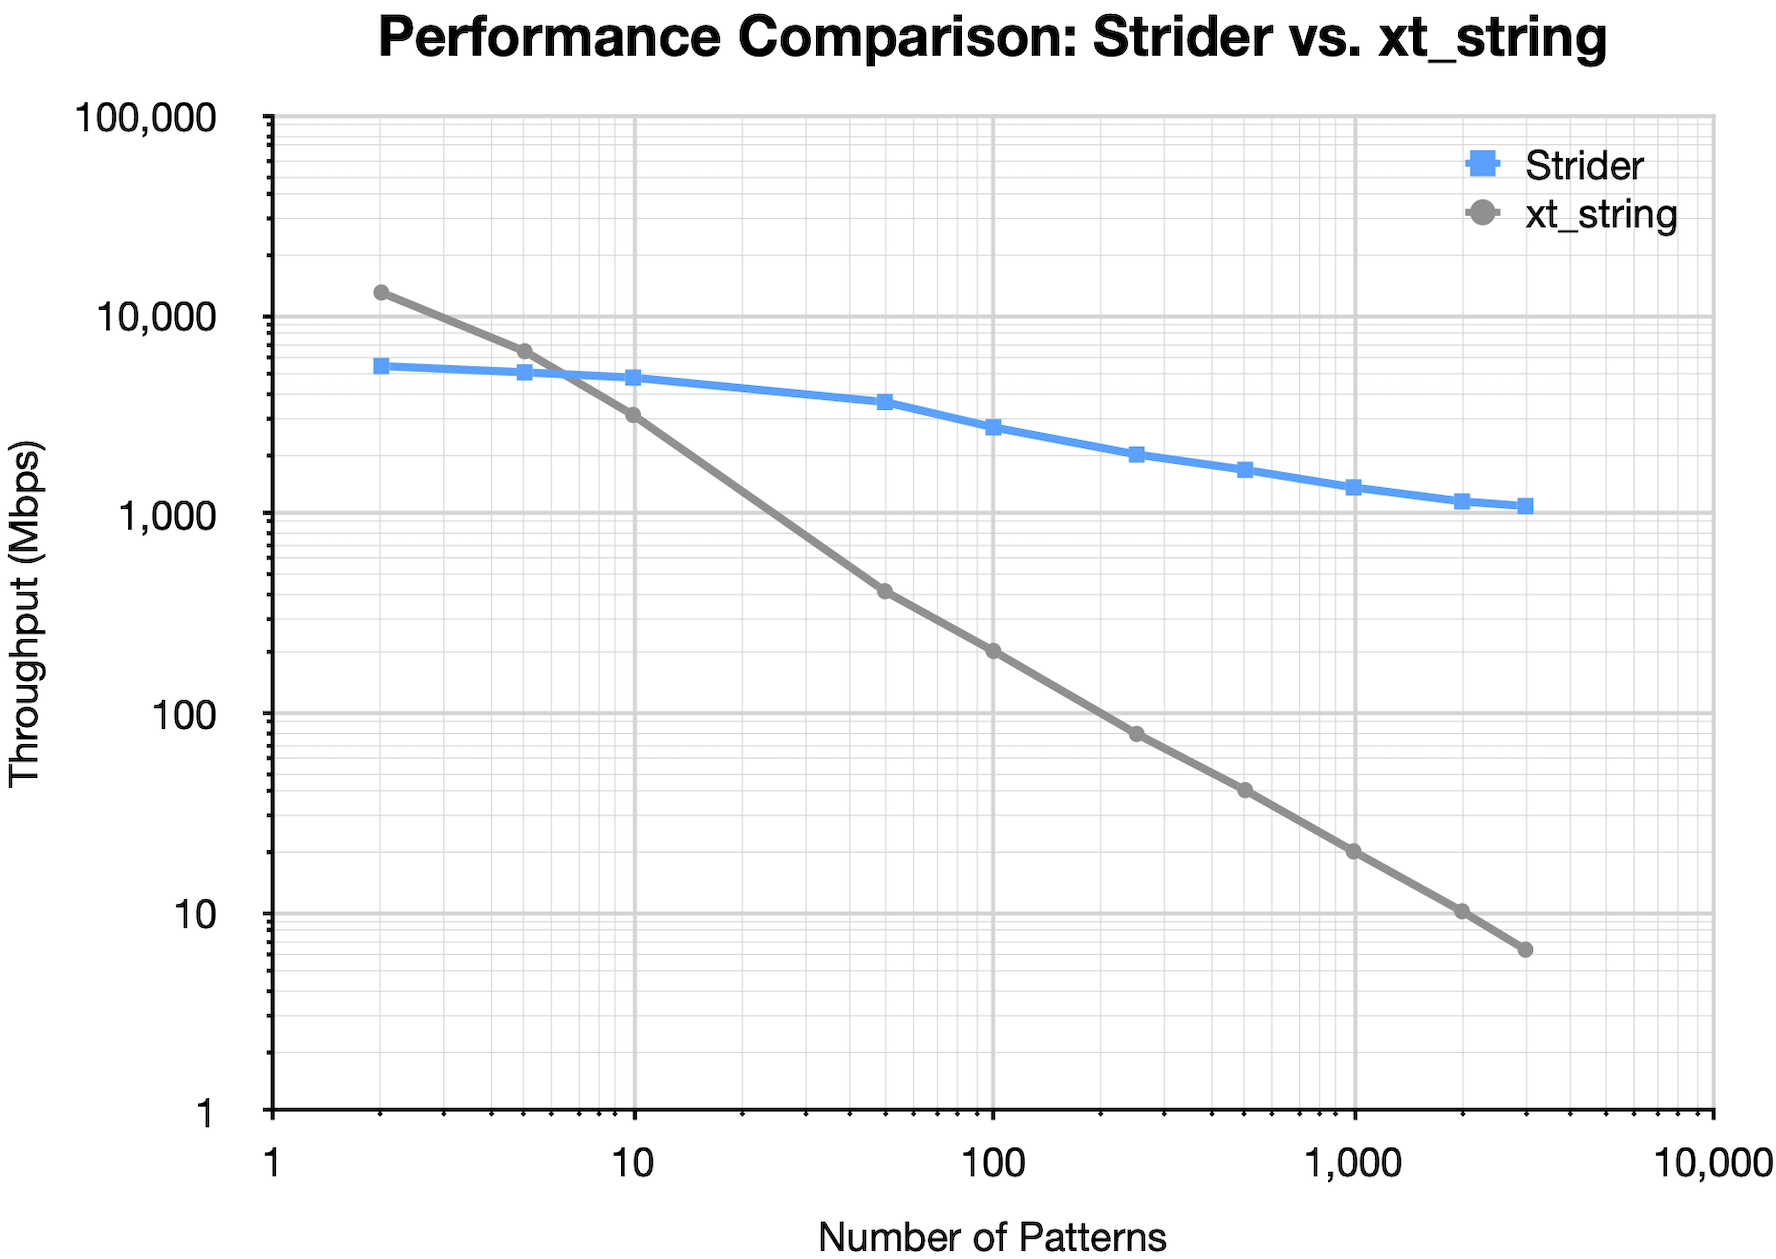
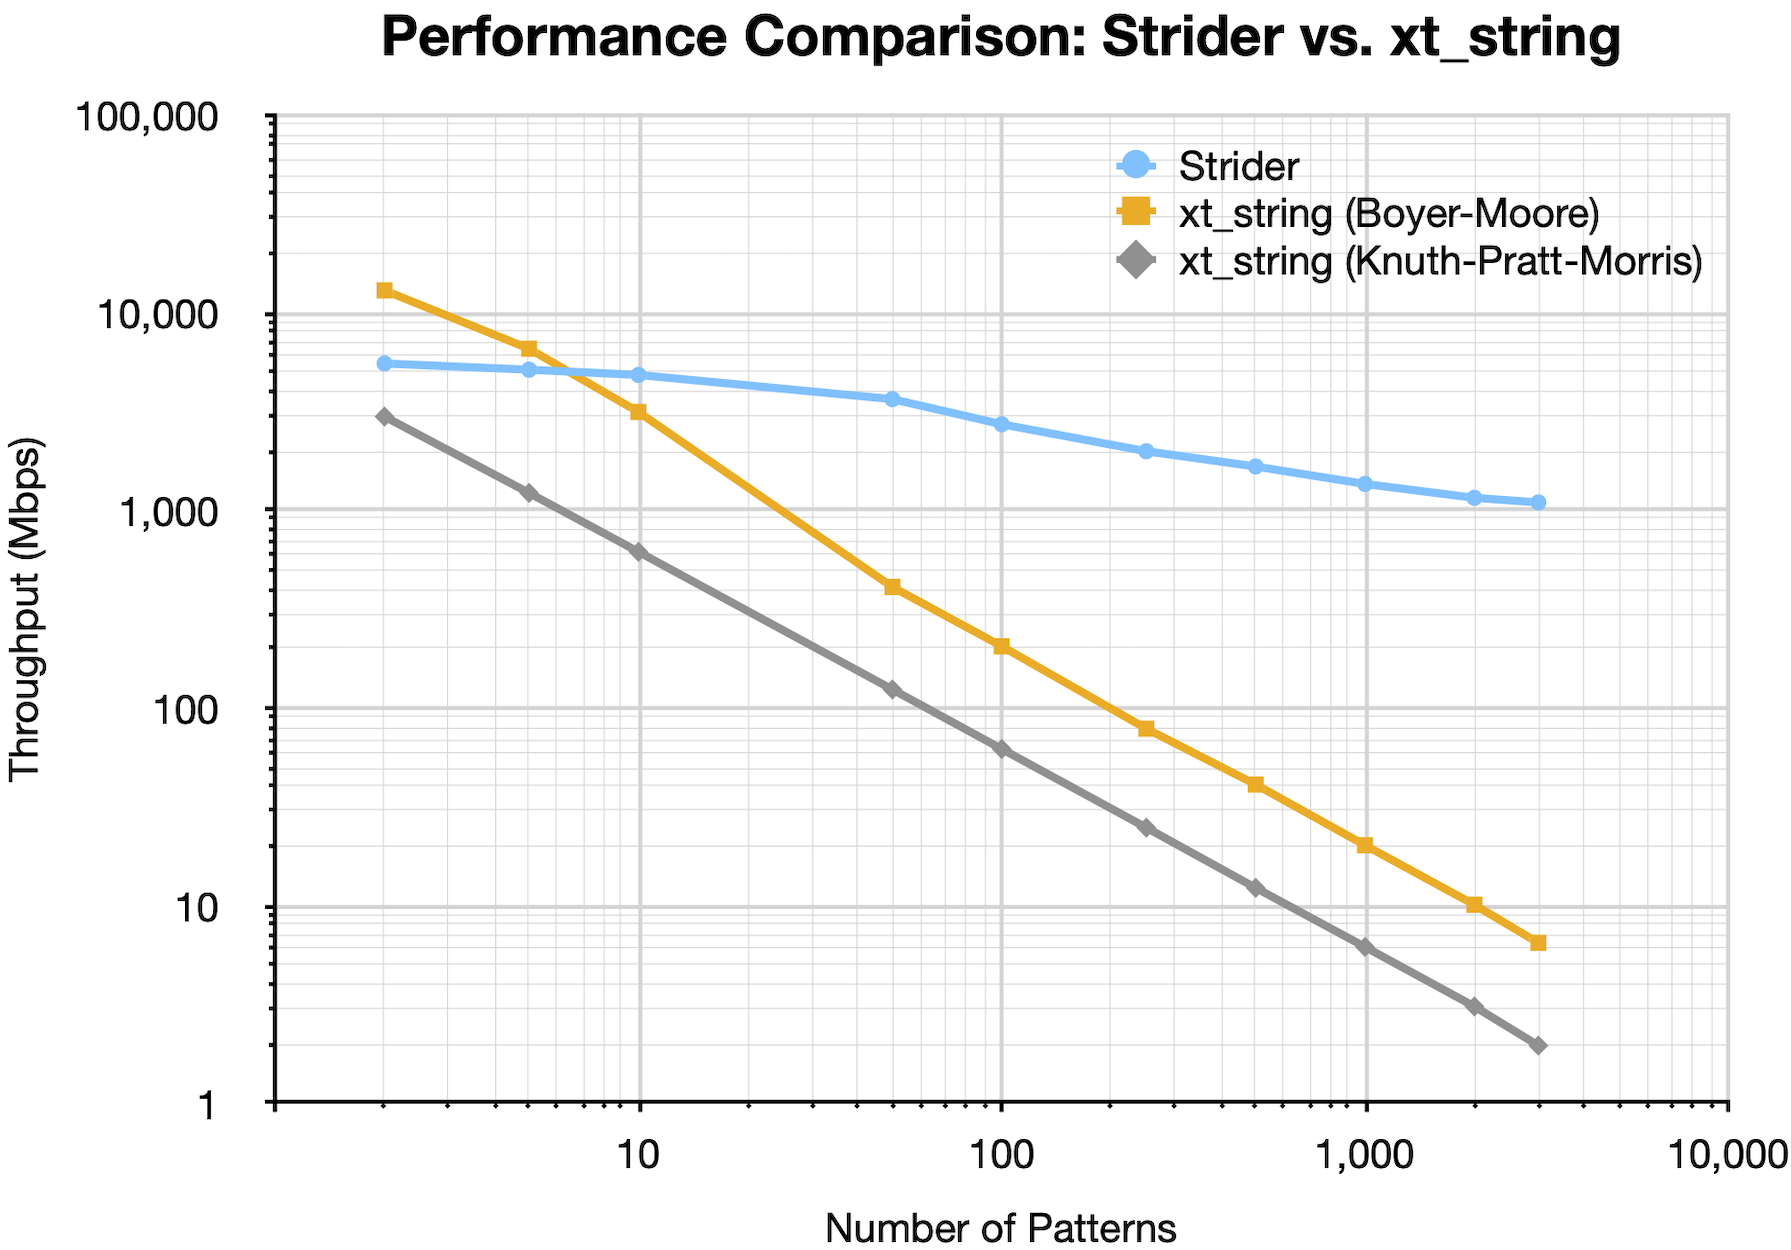
docs: update performance comparisons

diff --git a/README.md b/README.md
@@ -1,26 +1,34 @@
 # Strider
 
 Strider accelerates multi-pattern string matching in Linux Netfilter using the Aho-Corasick algorithm. It provides a
-scalable, dynamic alternative to
-[`xt_string`](https://man7.org/linux/man-pages/man8/iptables-extensions.8.html#:~:text=the%20nth%20mode.-,string,-This%20module%20matches),
+scalable, dynamic alternative to [
+`xt_string`](https://man7.org/linux/man-pages/man8/iptables-extensions.8.html#:~:text=the%20nth%20mode.-,string,-This%20module%20matches),
 capable of handling thousands of runtime-updatable patterns with minimal overhead.
 
 ## Why Strider?
 
-The native `xt_string` is slow because it matches patterns one by one. Strider uses the Aho-Corasick algorithm to match
-all patterns at once.
+The native `xt_string` scales poorly because it matches patterns one by one. Strider uses the Aho-Corasick algorithm to
+match **all patterns at once** in a single pass.
+
+What's worse, `xt_string` forces a trade-off between **speed** (Boyer-Moore, which misses patterns split across
+fragments) and **correctness** (Knuth-Pratt-Morris, reliable but extremely slow).
+
+**Strider gives you both.** It provides the correctness of KMP (never missing fragmented patterns) with performance that
+eclipses even the fast Boyer-Moore algorithm.
 
 <p align="center">
-    <img src="performance_comparison.png" width="49%" />
-    <img src="performance_gain.png" width="49%" />
+    <img src="performance_comparison.png" width="48%" />
+    <img src="performance_gain.png" width="48%" />
 </p>
 
 **Key Takeaways:**
 
-1. **Unmatched scalability**: Strider maintains above 1 Gbps throughput even with 3,000 patterns, delivering a **168x**
-   speedup over `xt_string` (which collapses to an unusable 6 Mbps).
-2. **Low break-even point**: You don't need massive rulesets to see benefits. Strider outperforms the native solution
-   once your ruleset exceeds just **~7** patterns.
+1. **Unmatched Scalability**: Strider maintains above 1 Gbps throughput even with 3,000 patterns, delivering a
+   **558.7x** speedup over `xt_string` (which collapses to an unusable 1.96 Mbps in the "reliable" KMP mode).
+2. **No "Safety Tax"**: Strider matches KMP's reliability guarantees (handling fragmentation) while delivering superior
+   performance for any non-trivial ruleset (>1 pattern).
+3. **Low Break-Even Point**: Even against the "fast but unreliable" Boyer-Moore algorithm, Strider takes the lead once
+   your ruleset exceeds just **~7** patterns.
 
 ## Installation
 
